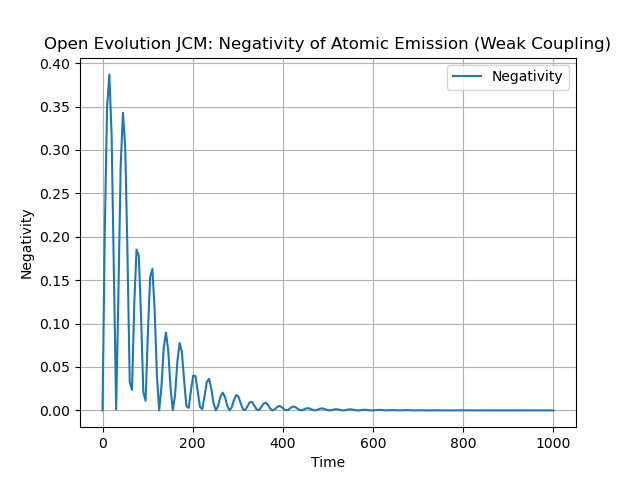
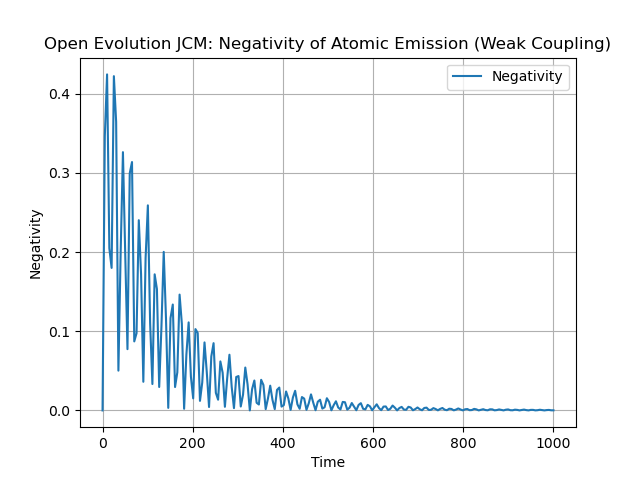
Adds a photon number parameter to all simulation scripts.

diff --git a/Research Project/Code/JCM_Closed.py b/Research Project/Code/JCM_Closed.py
@@ -2,7 +2,9 @@ from TLSQHOSimulator import TLSQHOSimulator
 import qutip as q
 import numpy as np
 
-
+# https://opg.optica.org/josab/fulltext.cfm?uri=josab-41-8-C206&id=553027
+# https://ar5iv.labs.arxiv.org/html/2112.08917v1
+# links for weak/strong regimes
 ############################## SETUP ######################################
 
 tlist = np.linspace(0.0, 100.0, 200)
@@ -10,11 +12,11 @@ tlist = np.linspace(0.0, 100.0, 200)
 # constants
 w = 1.0  # natural units, w = 1, hbar =1, kb = 1, GHz freq
 g = 0.1
-N = 2
-
+N = 30 # num Fock states
+n = 2 # photon number 
 # Bases
 basis_atom_e = q.basis(2, 0)
-basis_qho_0 = q.basis(N, 0)
+basis_qho_0 = q.basis(N, n)
 
 
 # Operators

diff --git a/Research Project/Code/SigZ_Open.py b/Research Project/Code/SigZ_Open.py
@@ -1,7 +1,6 @@
 from TLSQHOSimulator import TLSQHOSimulator
 import qutip as q
 import numpy as np
-from scipy.constants import k as K_B, h
 
 
 ############################## SETUP ######################################
@@ -11,11 +10,12 @@ tlist = np.linspace(0.0, 50.0, 2000)
 # constants
 w = 1.0
 g = 0.05  # weak regime, g < gamma, gamma_th AND g << w (zeta = 0.01, C = 1)
-N = 30
+N = 30 # num Fock states
+n = 2 # photon number 
 
 # Bases
 basis_atom_e = q.basis(2, 0)
-basis_qho_0 = q.basis(N, 0)
+basis_qho_0 = q.basis(N, n)
 
 
 # Operators

diff --git a/Research Project/Code/JCM_Open.py b/Research Project/Code/JCM_Open.py
@@ -9,11 +9,12 @@ tlist = np.linspace(0.0, 1000.0, 200)
 # constants
 w = 1.0  # natural units, w = 1, hbar =1
 g = 0.05  # weak regime, g < gamma, gamma_th AND g << w (zeta = 0.01, C = 1)
-N = 30
+N = 30 # num Fock states
+n = 2 # photon number 
 
 # Bases
 basis_atom_e = q.basis(2, 0)
-basis_qho_0 = q.basis(N, 0)
+basis_qho_0 = q.basis(N, n)
 
 # Operators
 a = q.tensor(q.qeye(2), q.destroy(N))

diff --git a/Research Project/Code/SigZ_Closed.py b/Research Project/Code/SigZ_Closed.py
@@ -9,11 +9,12 @@ tlist = np.linspace(0.0, 100.0, 200)
 # constants
 w = 1.0
 g = 0.1  # Weak coupling
-N = 2
+N = 30 # num Fock states
+n = 2 # photon number 
 
 # Bases
 basis_atom_e = q.basis(2, 0)
-basis_qho_0 = q.basis(N, 0)
+basis_qho_0 = q.basis(N, n)
 
 
 # Operators
